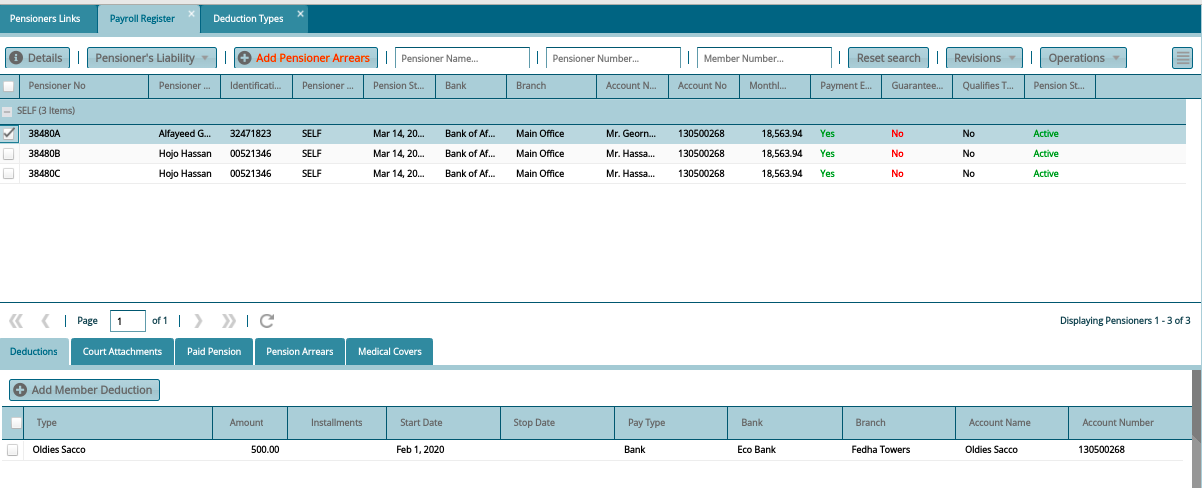
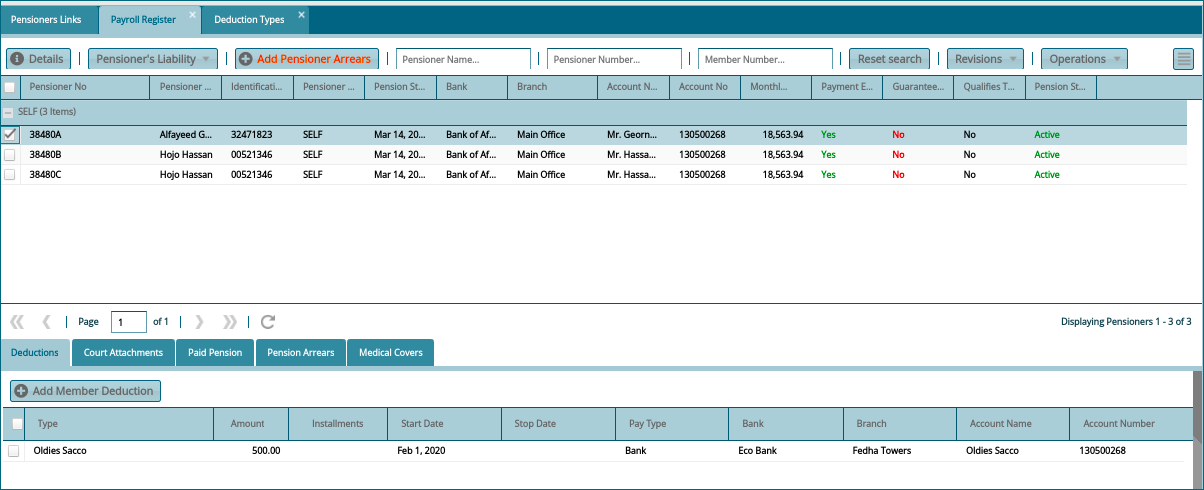
good

Changed region(s): [[0.0, 0.0, 1.0, 1.0]]

diff --git a/docs/src/pensioners/deductions.md b/docs/src/pensioners/deductions.md
@@ -13,13 +13,13 @@ medical covers or saccos, among others.
 -   Deduction type bank details must be up to date
 
 
-### Deduction Types
+## Deduction Types
 
 To add deduction types to the system, navigate to deduction menu and
 click **'Deduction Types'** link to open the deduction types window as
 shown below:
 
-<img  alt="deduction types window" width="90%" height="auto"  class="center"  src="../.vuepress/public/pensionmedia/image22.png">
+<img  alt="deduction types window" width="97%" height="auto"  class="center"  src="../.vuepress/public/pensionmedia/image22.png">
 
 
 **Action**
@@ -33,15 +33,15 @@ shown below:
     the list.
 
 
-Clicking the **'New Deduction Type'** button will open a Deduction Types
+Clicking the **'New Deduction Type'** button will open a deduction types
 dialog box through which the details of a new deduction type can be
 added in the system as shown in the screenshot below:
 
-<img  alt="add New Deduction Type" width="90%" height="auto"  class="center"  src="../.vuepress/public/pensionmedia/image23.png">
+<img  alt="deduction types dialog box " width="80%" height="auto"  class="center"  src="../.vuepress/public/pensionmedia/image23.png">
 
 
 
-### Adding Deduction to Pensioner
+## Adding Deduction to Pensioner
 
 Once the details have been saved successfully the next action is to add
 Pensioners deduction. There are two methods for adding deductions to
@@ -51,12 +51,13 @@ a.  Adding deduction for a single pensioner.
 
 b.  Adding deductions via template for more than one pensioner.
 
-#### Adding Deduction for a Single Pensioner
+
+### Adding Deduction for a Single Pensioner
 
 To add single pensioner deduction, proceed to the left side pane and
 click payroll register link as shown below:
 
-<img  alt="payroll register link" width="90%" height="auto"  class="center"  src="../.vuepress/public/pensionmedia/image24.png">
+<img  alt="payroll register link" width="50%" height="auto"  class="center"  src="../.vuepress/public/pensionmedia/image24.png">
 
 
 Clicking the **'Payroll Register'** link will open the Payroll Register
@@ -68,23 +69,25 @@ upper corner. This will open a section on the lower part of the window.
 Locate the Add Member deduction on the left side and click to launch a
 dialog box for filling in details. See the screenshot below:
 
-<img  alt="Payroll Register window" width="90%" height="auto"  class="center"  src="../.vuepress/public/pensionmedia/image25.png">
+<img  alt="Payroll Register window" width="96%" height="auto"  class="center"  src="../.vuepress/public/pensionmedia/image25.png">
 
 
 Clicking the **'Add Member Deduction'** button will pop up a pensioner
 deduction form through which details of the deduction transaction are
 captured as shown below:
 
-<img  alt="Add Member Deduction" width="90%" height="auto"  class="center"  src="../.vuepress/public/pensionmedia/image26.png">
+<img  alt="Add Member Deduction" width="70%" height="auto"  class="center"  src="../.vuepress/public/pensionmedia/image26.png">
 
 
-#### Adding Deductions Via Template
+
+### Adding Deductions Via Template
 
 This applies when the user wants to add pensioner deductions for more
 than one pensioner which will save user's time as opposed to adding
 deductions for a single pensioner at a time.
 
-#### Prerequisites
+
+### Prerequisites
 
 -   Load the deduction template provided.
 
@@ -97,7 +100,7 @@ demonstrated previously with a single pensioner. From the menu bar click
 the Pensioner Liability and from the drop-down menu, select 
 **'Import Member Deductions'** as shown in the screenshot below:
 
-<img  alt="Import Member Deductions link" width="90%" height="auto"  class="center"  src="../.vuepress/public/pensionmedia/image27.png">
+<img  alt="Import Member Deductions link" width="97%" height="auto"  class="center"  src="../.vuepress/public/pensionmedia/image27.png">
 
 
 Clicking the **'Import Member Deductions'** button will load an import
@@ -106,7 +109,7 @@ navigate to the location of already loaded deduction template from your
 files and click upload button which will populate the grid with both
 valid and invalid deduction details as shown in the screenshot below:
 
-<img  alt="import deductions window" width="90%" height="auto"  class="center"  src="../.vuepress/public/pensionmedia/image28.png">
+<img  alt="import deductions window" width="97%" height="auto"  class="center"  src="../.vuepress/public/pensionmedia/image28.png">
 
 
 To view the Pensioner's Deductions list, navigate to the Payroll
@@ -114,5 +117,5 @@ Register menu and select a Pensioner from the list. Click the
 **'Show Details'** checkbox at the right top corner as shown in the screenshot
 below:
 
-<img  alt="Show details checkbox" width="90%" height="auto"  class="center"  src="../.vuepress/public/pensionmedia/image29.png">
+<img  alt="Show details checkbox" width="97%" height="auto"  class="center"  src="../.vuepress/public/pensionmedia/image29.png">
 
